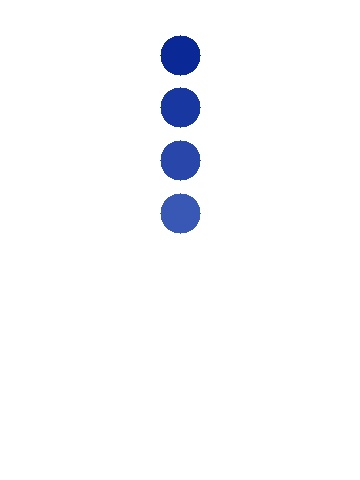
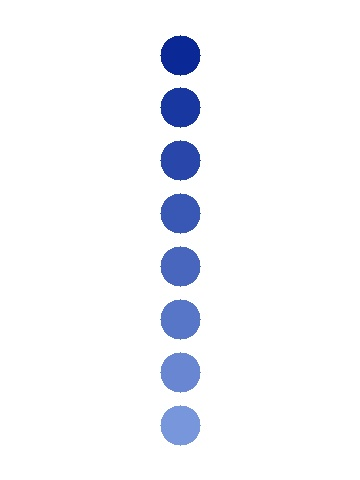
3d print test

Changed region(s): [[0.4278, 0.625, 0.5806, 0.9375], [0.4278, 0.5, 0.5806, 0.5938]]

diff --git a/docs/vial_dilution_print_demo.md b/docs/vial_dilution_print_demo.md
@@ -42,11 +42,11 @@ one-off you can also edit the `CONFIG` dict directly at the top of
 
 | Section / key | What it adjusts | Default |
 |---------------|-----------------|---------|
-| `deck.<pos>.slot` / `.load_name` / `.namespace` / `.version` | where each labware sits + its identity | 1/2/3/6 |
+| `deck.<pos>.slot` / `.load_name` / `.namespace` / `.version` | where each labware sits + its identity | 7/4/5/9 (rack/plate/paper/tips) |
 | `pipette.name` / `.mount` | **hardware** — leave as p300_multi_gen2 / right | p300_multi_gen2, right |
-| `pipette.single_start` | active nozzle for single-tip work (`H1` front) | H1 |
-| `sources.water_vial` / `.food_coloring_vial` | **which vial holds water vs dye** | A1 / A2 |
-| `dilution.destination_column` | **which 96-plate column** holds the series | "1" |
+| `pipette.single_start` | active nozzle for single-tip work (`A1` back; idle nozzles point off the tall rack) | A1 |
+| `sources.water_vial` / `.food_coloring_vial` | **which vial holds water vs dye** | A1 / B1 |
+| `dilution.destination_column` | **which 96-plate column** holds the series | "9" |
 | `dilution.total_volume_ul` | volume in every well | 200 |
 | `dilution.factors.mode` | `explicit` / `geometric` / `linear` / `log` | explicit |
 | `dilution.factors.explicit` | **the exact fold list** (1 = stock) | [1,2,5,10,20,30,40,50] |
@@ -54,16 +54,16 @@ one-off you can also edit the `CONFIG` dict directly at the top of
 | `dilution.factors.start`/`end`/`count` | endpoints + **how many dilutions** (geometric/linear/log) | 1 / 50 / 8 |
 | `dilution.mix_reps` / `.mix_volume_ul` | mixing after each dilution | 3 / 120 |
 | `dilution.single_tip_columns` | tiprack columns the single tips come from | [12, 11] |
-| `printing.source_column` | which plate column to print | "1" |
+| `printing.source_column` | which plate column to print | "9" |
 | `printing.droplet_volume_ul` | droplet size | 15 |
-| `printing.num_replicates` | **how many times** to print the column on the paper | 1 |
-| `printing.paper_start_well` / `.dispense_z_mm` | where/how-high droplets land | A1 / 3 mm |
-| `printing.replicate_spacing_mm` | x/y gap between replicate columns | 12 / 0 |
+| `printing.num_replicates` | **how many times** to print the column on the paper | 4 |
+| `printing.paper_start_well` / `.dispense_z_mm` | where/how-high droplets land | A9 / 3 mm |
+| `printing.replicate_spacing_mm` | x/y gap between replicate columns | 9 / 0 |
 | `printing.print_block_column` | tiprack column grabbed as the 8-tip block | 1 |
 | `printing.blow_out` / `.touch_tip` | extra dispense actions | false / false |
 | `tips.return_tips` | **return to box (true)** vs trash (false) | true |
 | `camera.enabled` / `capture_before` / `capture_after` | CV snapshot toggles | true |
-| `camera.capture_mid_wells` | **which middle steps** get a snapshot | [C1, E1, H1] |
+| `camera.capture_mid_rows` | **which middle rows** get a snapshot (dest column appended at runtime) | [C, E, H] |
 | `camera.robot_image_dir` | where the robot saves JPEGs | /data/vision/vial_dilution_print |
 | `flow_rates.aspirate` / `.dispense` / `.mix` | µL/s (null = default) | null |
 | `cv.expected_droplets` / `.min_circularity_ok` / `.detection` | host-side CV check (pass `--expect`) | 8 / 0.6 / otsu |
@@ -99,31 +99,36 @@ tips: {return_tips: false}
  back   ┌───────┬───────┬───────┐
  row    │  10   │  11   │  12🗑 │
         ├───────┼───────┼───────┤
-        │   7   │   8   │   9   │
+        │7 VIAL │   8   │ 9 TIP │   ← rack + tip box (p300 300 µL)
         ├───────┼───────┼───────┤
-        │   4   │   5   │ 6 TIP │   ← tip box (p300 300 µL)
+        │4 PLATE│5 PAPER│   6   │
         ├───────┼───────┼───────┤
- front  │1 VIAL │2 PLATE│3 PAPER│
+ front  │   1   │   2   │   3   │
         └───────┴───────┴───────┘
 ```
 
 | Slot | Labware | Contents |
 |------|---------|----------|
-| 1 | `tuberack_3dprint_20ml_8vials_v2` | **vial A1 = water**, **vial A2 = food colouring** (20 mL each) |
-| 2 | `corning_96_wellplate_360ul_custom` | dilution column 1 (A1…H1) |
-| 3 | `corning_96_wellplate_360ul_custom` | paper target (96-well reference so the 8 channels map to 8 spots) |
-| 6 | `opentrons_96_tiprack_300ul` | the "pipette box" |
+| 7 | `tuberack_3dprint_20ml_8vials_v2` | **vial A1 (back) = water**, **vial B1 (front) = food colouring** (20 mL each) |
+| 4 | `corning_96_wellplate_360ul_custom` | dilution column 9 (A9…H9) |
+| 5 | `corning_96_wellplate_360ul_custom` | paper target (96-well reference so the 8 channels map to 8 spots) |
+| 9 | `opentrons_96_tiprack_300ul` | the "pipette box" |
 
 **Pipette:** `p300_multi_gen2` on the **right mount** (fixed — never changes).
 **apiLevel:** `2.28`.
 
-> ### Why the tip box is in slot 6, not slot 4
-> Slot 4 sits **directly behind** the tuberack (slot 1). In single-nozzle mode the 7
-> idle nozzles swing over the slot behind the active nozzle; reaching the tall 60 mm
-> vials with a tip box in slot 4 throws a hard `PartialTipMovementNotAllowedError`.
-> Using `start="H1"` (front nozzle, idle toward the back) reaches the whole plate
-> column but needs slots 4 **and** 5 empty. Slot 6 (nothing tall behind slots 1 or 2)
-> is the only clean fit — verified end-to-end in simulation.
+> ### Why these slots + `single_start: A1`
+> The dilution runs in single-nozzle (partial-tip) mode, where the 7 idle nozzles of
+> the 8-channel head hang ~63 mm to one side. Two rules follow:
+> 1. **Keep the single-nozzle labware (rack, plate, tips) in the middle rows
+>    (4-5-6 / 7-8-9).** In the front row (1-2-3) or back row (10-11-12) the idle
+>    nozzles fall outside robot bounds → a hard `PartialTipMovementNotAllowedError`.
+> 2. **Point the idle nozzles off the tall (60 mm) vial rack.** The rack is at slot 7
+>    (back of the cluster), so `start="A1"` (back nozzle) makes the idle nozzles hang
+>    **forward** over empty/short slots — never back across the rack. (`H1` simulates
+>    fine but would sweep the bare idle nozzles over the rack — a real collision risk.)
+>
+> Verified end-to-end in simulation: rack 7, plate 4, paper 5, tips 9, `A1`.
 
 > ### Why apiLevel 2.28
 > Returning a tip to the rack while in **partial** (single-nozzle) configuration is
@@ -142,31 +147,32 @@ tips: {return_tips: false}
    `p300_multi_gen2` right, slots are distinct, and all volumes are in range. Aborts
    with `PRE-FLIGHT VALIDATION FAILED` (no motion) on any mismatch.
 2. **CV: before** — `before_deck.jpg`, `before_plate.jpg`.
-3. **Dilution (single nozzle, `SINGLE` start `H1`)** — direct dilution, total **200 µL**
+3. **Dilution (single nozzle, `SINGLE` start `A1`)** — direct dilution, total **200 µL**
    per well, `stock = 200 / fold`:
 
-   | Well | Fold | Stock µL (vial A2) | Water µL (vial A1) |
+   | Well | Fold | Stock µL (vial B1) | Water µL (vial A1) |
    |------|------|--------------------|--------------------|
-   | A1 | 1× | 200 | 0 |
-   | B1 | 2× | 100 | 100 |
-   | C1 | 5× | 40 | 160 |
-   | D1 | 10× | 20 | 180 |
-   | E1 | 20× | 10 | 190 |
-   | F1 | 30× | 6.7 | 193.3 |
-   | G1 | 40× | 5 | 195 |
-   | H1 | 50× | 4 | 196 |
+   | A9 | 1× | 200 | 0 |
+   | B9 | 2× | 100 | 100 |
+   | C9 | 5× | 40 | 160 |
+   | D9 | 10× | 20 | 180 |
+   | E9 | 20× | 10 | 190 |
+   | F9 | 30× | 6.7 | 193.3 |
+   | G9 | 40× | 5 | 195 |
+   | H9 | 50× | 4 | 196 |
 
-   - **Water pass:** one clean tip (`A12`) distributes water into B1…H1 — the tip only
+   - **Water pass:** one clean tip (`A12`) distributes water into B9…H9 — the tip only
      ever touches water, so the water vial stays pure.
    - **Stock + mix pass:** a **fresh tip per well** (`B12…H12`, `A11`) draws dye from
-     vial A2, dispenses, and mixes — no dye carry-over and the dye vial never sees a
+     vial B1, dispenses, and mixes — no dye carry-over and the dye vial never sees a
      used tip. Each tip is **returned** to the box.
-   - **CV: middle** — a snapshot after wells C1, E1, H1 (`plate_dilution_*.jpg`) plus
+   - **CV: middle** — a snapshot after wells C9, E9, H9 (`plate_dilution_*.jpg`) plus
      `plate_after_dilution.jpg`.
 4. **Print (full 8-channel, `ALL`)** — picks up **column 1 of the tip box (8 tips) as a
-   block**, aspirates 15 µL from plate column 1 (all 8 wells at once), and dispenses
-   onto paper column 1 → **8 droplets in one shot**. Tips **returned**.
-   - **CV: print** — `paper_print.jpg`.
+   block**, aspirates 15 µL from plate column 9 (all 8 wells at once), and dispenses
+   onto the paper → **8 droplets in one shot**, repeated for each of the 4 replicates.
+   Tips **returned**.
+   - **CV: print** — `paper_print_01.jpg` ... `paper_print_04.jpg`.
 5. **CV: after** — `after_deck.jpg`, `after_plate.jpg`.
 
 > ⚠ **Accuracy caveat.** The 20×–50× stock volumes (4–10 µL) are **below the p300's
@@ -236,11 +242,14 @@ trends light→dark down the column).
 2. **Confirm the robot supports API 2.28.** If not, see the apiLevel note above.
 3. **Build from your YAML** (`python scripts/build_vial_dilution_print.py`) and **run the
    generated file** `src/protocols/generated/vial_dilution_print_latest.py` via the
-   Opentrons App (upload, set Runtime Parameters, Run) or `opentrons_execute` over SSH.
+   Opentrons App (upload, set Runtime Parameters, Run). Do not use bare
+   `opentrons_execute` for this API 2.28 protocol; it does not provide the deck
+   configuration this protocol needs.
    Start with **dry_run = True** to confirm loading + pre-flight, then a real run.
 4. **Pull images & run CV:** retrieve `/data/vision/vial_dilution_print/*.jpg` (see
-   [computer_vision.md](computer_vision.md) for `scp -O`), then
-   `python vision_tests/scripts/verify_print_droplets.py --image <paper_print.jpg>`.
+   [computer_vision.md](computer_vision.md) for `scp -O`), then run the CV check on
+   one printed replicate, e.g.
+   `python vision_tests/scripts/verify_print_droplets.py --image <paper_print_01.jpg> --expect 8`.
 
 ### Real-robot watch-outs (simulation cannot catch these)
 - **Run Labware Position Check** for the vial rack, plate, and paper. Nominal positions
@@ -248,7 +257,7 @@ trends light→dark down the column).
 - **Idle-nozzle / vial clearance** in single-nozzle mode — verify by eye with the
   e-stop in hand on the first run (the tall 60 mm vials are the hazard).
 - **Sub-minimum volumes** (20×–50×) print imprecise colours — expected (see caveat).
-- **Paper height** — `PRINT_DISPENSE_Z_MM` (3 mm above the paper-reference well bottom)
+- **Paper height** — `printing.dispense_z_mm` (3 mm above the paper-reference well bottom)
   assumes paper laid flat; adjust if the paper sits high/low.
 - **API 2.28 support** on the robot (see above).
 

diff --git a/skills/vial-dilution-print/PARAMETERS.md b/skills/vial-dilution-print/PARAMETERS.md
@@ -16,13 +16,13 @@ For each of `tuberack`, `plate`, `paper`, `tiprack`:
 
 | Key | Type | Units | Physical impact | Safe bounds |
 |-----|------|-------|-----------------|-------------|
-| `slot` | int | deck slot # | Where the labware physically sits. | 1–11; **all four must be distinct**; tiprack ≠ slot directly behind tuberack (use **6**). |
+| `slot` | int | deck slot # | Where the labware physically sits. | 1–11; **all four must be distinct**. Keep the single-nozzle labware (tuberack, plate, tiprack) in the **middle rows (4-5-6 / 7-8-9)** — out of the front row (1-2-3) and back row (10-11-12) — or partial-tip moves go out of bounds. |
 | `load_name` | str | — | Selects the labware geometry the OT-2 uses. | Must exactly match a known/loaded definition; tuberack must equal `safety.expected_tuberack_load_name`. |
 | `namespace` | str | — | Custom-labware namespace. | `custom_beta` for the custom rack/plate; omit for standard Opentrons labware. |
 | `version` | int | — | Labware definition version. | Must match the JSON's `version` (currently `1`); bump in lockstep when you revise the JSON. |
 
-Fixed defaults: tuberack→1, plate→2, paper→3, tiprack→6. **Paper** uses a 96-well
-plate purely as a coordinate anchor (no liquid loaded).
+Verified defaults: tuberack→**7**, plate→**4**, paper→**5**, tiprack→**9**. **Paper**
+uses a 96-well plate purely as a coordinate anchor (no liquid loaded).
 
 ## `pipette:` — HARDWARE (do not change without re-rigging)
 
@@ -30,14 +30,14 @@ plate purely as a coordinate anchor (no liquid loaded).
 |-----|------|-------|-----------------|-------------|
 | `name` | str | — | Which pipette is loaded; sets max volume + channel count. | `p300_multi_gen2` (must match the attached pipette). |
 | `mount` | str | — | Physical mount side. | `left` \| `right` (rig is `right`). |
-| `single_start` | str | well | Which nozzle is active in single-tip mode. | A valid head nozzle; `H1` = front nozzle (used so idle nozzles clear the deck). |
+| `single_start` | str | well | Which nozzle is active in single-tip mode; the other 7 idle nozzles hang ~63 mm to one side. | A corner nozzle (`A1`/`H1`). Point idle nozzles AWAY from the tall vial rack: rack at the **back** of the cluster → use **`A1`** (idle forward); rack at the front → `H1`. Default **`A1`** (rack at slot 7). |
 
 ## `sources:` — which vial holds what
 
 | Key | Type | Units | Physical impact | Safe bounds |
 |-----|------|-------|-----------------|-------------|
 | `water_vial` | str | vial well | Vial aspirated for the diluent (water). | A well in the tube rack (`A1`–`B4`); default `A1`. |
-| `food_coloring_vial` | str | vial well | Vial aspirated for the dye stock. | A different tube-rack well; default `A2`. Keep ≠ `water_vial`. |
+| `food_coloring_vial` | str | vial well | Vial aspirated for the dye stock. | A different tube-rack well; default `B1` (front/bottom of column 1; water is `A1`, the back/top). Keep ≠ `water_vial`. |
 
 ## `dilution:` — the series
 
@@ -72,8 +72,8 @@ plate purely as a coordinate anchor (no liquid loaded).
 | `enabled` | bool | — | Run Phase B at all. | `true`/`false`. |
 | `source_column` | str | plate column | Plate column printed (8 wells, one per channel). | Valid plate column; usually equals `dilution.destination_column`. |
 | `droplet_volume_ul` | float | µL | Volume dispensed per channel per replicate; droplet size + tip headspace. | `> 0` and `≤ 300`; keep small (default `15.0`) to preserve the air headspace. |
-| `num_replicates` | int | prints | How many times the column is printed across the paper. | `≥ 1`; ensure `(n−1)·spacing` stays on the paper. Default `1`. |
-| `paper_start_well` | str | well | Paper-proxy well used as the spatial origin for the droplet row. | A valid plate well; default `A1`. |
+| `num_replicates` | int | prints | How many times the column is printed across the paper. | `≥ 1`; ensure `(n−1)·spacing` stays on the paper. Default `4`. |
+| `paper_start_well` | str | well | Paper-proxy well used as the spatial origin for the droplet row. | A valid plate well; default `A9`. |
 | `dispense_z_mm` | float | mm | Tip height **above the paper-proxy well bottom**. The tip never touches paper. | `> 0`; default `3.0` (≈3 mm above the sheet given the ~5 mm well bottom). Lower cautiously; raise if paper is on a mat. |
 | `print_block_column` | int | tiprack column | Tiprack column grabbed as the reserved 8-tip block. | `1`–`12`; **must not** be in `single_tip_columns`. Default `1`. |
 | `blow_out` | bool | — | Blow out after each dispense (expels the air headspace). | Default `false` — leave off to avoid splatter unless clearing the tip is intended. |
@@ -83,7 +83,7 @@ plate purely as a coordinate anchor (no liquid loaded).
 
 | Key | Type | Units | Physical impact | Safe bounds |
 |-----|------|-------|-----------------|-------------|
-| `x` | float | mm | Horizontal step between replicate columns. | `≥ 0`; `(num_replicates−1)·x` must stay on the paper. Default `12.0`. |
+| `x` | float | mm | Horizontal step between replicate columns. | `≥ 0`; `(num_replicates−1)·x` must stay on the paper. Default `9.0`. |
 | `y` | float | mm | Vertical-on-deck (front/back) step. | `≥ 0`; default `0.0`. |
 | `z` | float | mm | Height step between replicates. | `0.0` for flat paper; non-zero only for stacked replicates (unusual). Default `0.0`. |
 

diff --git a/skills/vial-dilution-print/PROTOCOL_MECHANICS.md b/skills/vial-dilution-print/PROTOCOL_MECHANICS.md
@@ -10,18 +10,23 @@ see [PARAMETERS.md](PARAMETERS.md) for the knobs.
 
 | Slot | Labware | Role |
 |------|---------|------|
-| 1 | `tuberack_3dprint_20ml_8vials_v2` (custom_beta v1) | Two 20 mL vials: **A1 = water**, **A2 = food colouring**. |
-| 2 | `corning_96_wellplate_360ul_custom` | Dilution series lives in column 1 (rows A→H). |
-| 3 | `corning_96_wellplate_360ul_custom` | **Paper proxy** — a plate object used only as an X/Y/Z coordinate anchor; no liquid is loaded. |
-| 6 | `opentrons_96_tiprack_300ul` | Tips. **Must be slot 6, not directly behind the tuberack.** |
+| 7 | `tuberack_3dprint_20ml_8vials_v2` (custom_beta v1) | Two 20 mL vials in column 1: **A1 (back/top) = water**, **B1 (front/bottom) = food colouring**. |
+| 4 | `corning_96_wellplate_360ul_custom` | Dilution series lives in column 9 (rows A→H). |
+| 5 | `corning_96_wellplate_360ul_custom` | **Paper proxy** — a plate object used only as an X/Y/Z coordinate anchor; no liquid is loaded. |
+| 9 | `opentrons_96_tiprack_300ul` | Tips. |
 
-**Why slot 6:** in single-nozzle mode the 7 idle nozzles of the 8-channel head
-hang off to one side. If the tip box were directly behind the tuberack, those idle
-nozzles would collide with it. Slot 6 is verified clear.
+**Why these slots (single-nozzle rule):** the dilution runs in single-nozzle
+(partial-tip) mode, where the 7 idle nozzles of the 8-channel head hang ~63 mm to one
+side. The single-nozzle labware (rack 7, plate 4, tips 9) must therefore stay in the
+**middle rows (4-5-6 / 7-8-9)** — off the front row (1-2-3) and back row (10-11-12) —
+or a partial-tip move falls outside robot bounds (`PartialTipMovementNotAllowedError`).
+With the tall rack at the back of the cluster (slot 7), `single_start=A1` (back nozzle)
+points the idle nozzles **forward** over empty/short slots, clearing the 60 mm rack.
+Verified end-to-end in simulation.
 
 **Pipette:** `p300_multi_gen2`, right mount (HARDWARE — fixed).
 
-## The vial tube rack (slot 1) geometry
+## The vial tube rack (slot 7) geometry
 
 The rack is 2 rows × 4 columns = 8 vials. Pulled straight from the labware JSON:
 
@@ -88,7 +93,7 @@ On pass it emits non-fatal **accuracy warnings** for any stock draw below the p3
 
 ### Phase A — dilution (single nozzle)
 
-`configure_nozzle_layout(style=SINGLE, start=H1)` — only the front (H1) nozzle is
+`configure_nozzle_layout(style=SINGLE, start=A1)` — only the back (A1) nozzle is
 active, so the head behaves like a single-channel pipette.
 
 1. **Water pass — one clean tip.** The *first* tip allocated does water only,

diff --git a/skills/vial-dilution-print/SKILL.md b/skills/vial-dilution-print/SKILL.md
@@ -6,9 +6,9 @@ description: Build, validate, simulate, deploy, and CV-verify the 20 mL vial →
 # Vial Dilution → 8-Channel Paper Print
 
 The flagship demo pipeline: draw water + food colouring from two **20 mL
-scintillation vials** in the custom v2 tube rack (slot 1), build an 8-step
-dilution series down **one column** of a 96-well plate (slot 2), then pick up an
-8-tip block and "print" that whole column onto paper (slot 3) as 8 simultaneous
+scintillation vials** in the custom v2 tube rack (slot 7), build an 8-step
+dilution series down **one column** of a 96-well plate (slot 4), then pick up an
+8-tip block and "print" that whole column onto paper (slot 5) as 8 simultaneous
 droplets. Tips are **returned**, not trashed. The host then runs computer-vision
 QC on the resulting droplet image.
 
@@ -79,8 +79,12 @@ See [TOOLS.md](TOOLS.md) §5 for the tool list and the knob→YAML mapping.
 2. **Tip-column separation.** `printing.print_block_column` must not appear in
    `dilution.single_tip_columns`, or the 8-tip print block would be clobbered by
    single-tip dilution pickups.
-3. **Slot 6 tiprack.** The tip box must not sit directly behind the tuberack;
-   single-nozzle idle nozzles collide. Slot 6 is verified clear.
+3. **Middle-row layout for single-nozzle labware.** The vial rack, tip rack, and
+   plate must stay in the middle deck rows (4-5-6 / 7-8-9) — off the front row (1-2-3)
+   and back row (10-11-12) — so partial-tip idle nozzles stay in robot bounds, and
+   `single_start` must point those idle nozzles off the tall vial rack. Verified
+   layout: rack 7, plate 4, paper 5, tips 9, `single_start: A1`. See
+   [ot2-robot-profile](../ot2-robot-profile/SKILL.md) for the general rule.
 4. **apiLevel 2.28.** Required for `return_tip()` in partial (single-nozzle) mode.
 5. **No hardcoded rows/wells.** Row order is derived from the loaded labware
    (`rows_by_name()`), never the literal `"ABCDEFGH"`. A regression test enforces
